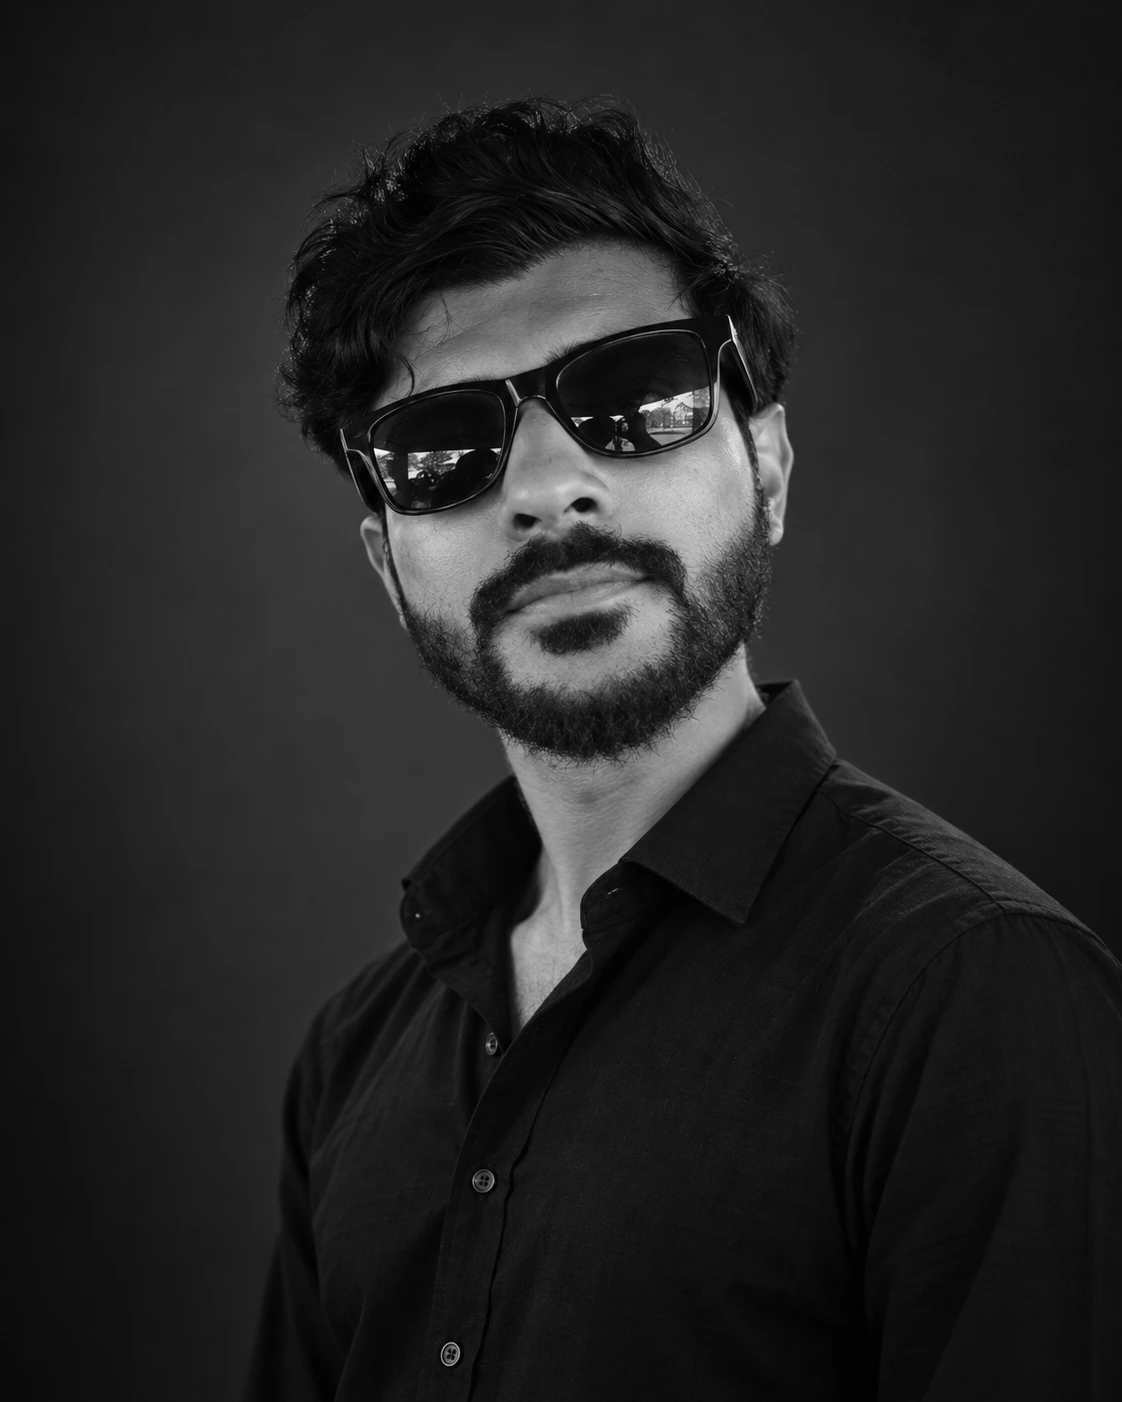
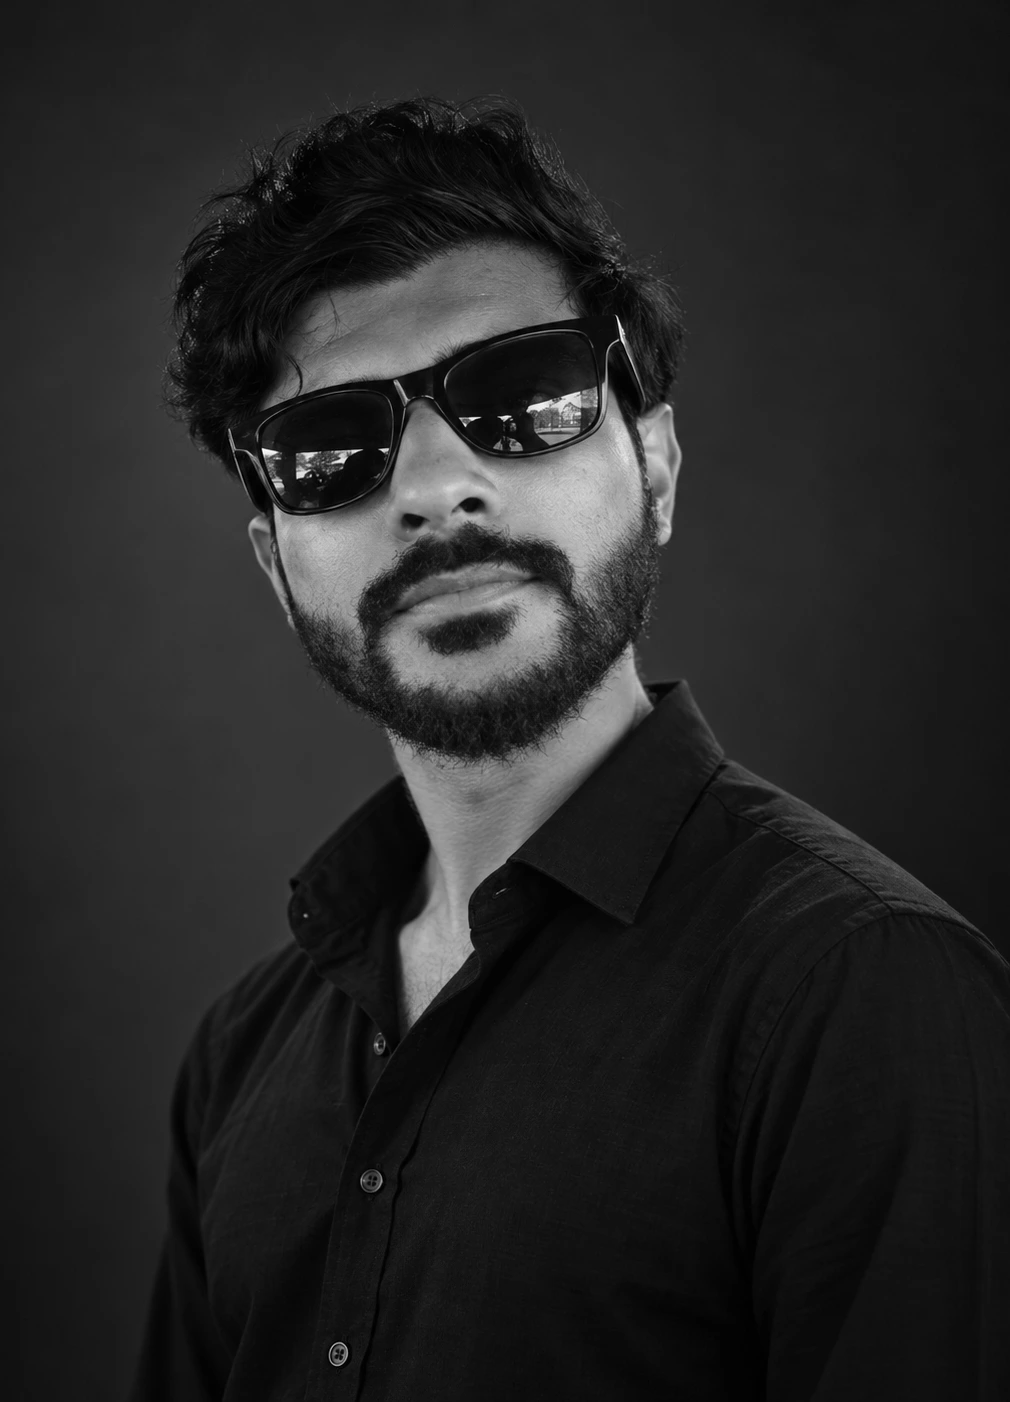
Footer: my silhouette in haze behind the invitation; About portrait cropped
art/portrait.py turns the grey studio shot into the footer's background:
the figure filled into one dark silhouette, a glow on the wall behind the
head, heavy blur with a sideways smear, haze and grain, in grayscale. The
invitation sits on its quiet left (on phones, at its foot) and the image
fades into the page; the mercury stirs it, through the text. The dark shot
on About loses the empty band on its left. The grey shot is no longer used.

diff --git a/art/portrait.py b/art/portrait.py
@@ -1,0 +1,65 @@
+# The portrait treatments, from the owner's studio shots:
+#   haze  the footer's background: the figure as a soft silhouette against light, out of focus and
+#         smeared a little sideways, with a glow behind the head, haze and grain. Grayscale.
+#   crop  the dark studio shot for About, without the empty band on its left.
+#   art/out/venv/bin/python art/portrait.py <grey-shot> <dark-shot>
+#   -> src/assets/portrait/haze.webp and src/assets/portrait/studio-dark.webp
+import sys
+from pathlib import Path
+
+import numpy as np
+from PIL import Image
+from scipy.ndimage import binary_closing, binary_fill_holes, gaussian_filter, uniform_filter1d
+
+ROOT = Path(__file__).resolve().parents[1]
+OUT = ROOT / 'src/assets/portrait'
+grey_shot, dark_shot = sys.argv[1:3]
+rng = np.random.default_rng(19)
+
+
+def haze(path, W=2400, H=1500):
+    src = np.asarray(Image.open(path).convert('L'), dtype=np.float32) / 255
+    wall = float(np.median(src[: src.shape[0] // 6, : src.shape[1] // 6]))
+    # The figure, large and a little right of centre, cut off at the bottom like a bust.
+    scale = H * 1.18 / src.shape[0]
+    fig = np.asarray(Image.fromarray((src * 255).astype(np.uint8)).resize((int(src.shape[1] * scale), int(src.shape[0] * scale)), Image.LANCZOS), dtype=np.float32) / 255
+    canvas = np.full((H, W), wall, dtype=np.float32)
+    x0 = int(W * 0.6 - fig.shape[1] / 2)
+    y0 = int(H * 0.16)
+    h = min(fig.shape[0], H - y0)
+    canvas[y0 : y0 + h, max(0, x0) : x0 + fig.shape[1]] = fig[:h, max(0, -x0) :][:, : W - max(0, x0)]
+    # The figure as one solid shape: the dark parts (hair, glasses, beard, shirt) closed up and
+    # filled, so the face between them is inside it too. Then filled near black: a silhouette.
+    dark = canvas < wall - 0.15
+    dark = binary_closing(dark, structure=np.ones((9, 9)), iterations=9)
+    dark = binary_fill_holes(dark)
+    mask = gaussian_filter(dark.astype(np.float32), 4)
+    canvas = canvas * (1 - mask) + (0.1 + 0.12 * canvas) * mask
+    # Light behind the head, raking up and to the right, that falls on the wall, not on him.
+    yy, xx = np.mgrid[0:H, 0:W].astype(np.float32)
+    hx, hy = W * 0.6 + W * 0.06, H * 0.36
+    d = ((xx - hx) / (W * 0.2)) ** 2 + ((yy - hy) / (H * 0.42)) ** 2
+    shaft = np.exp(-d) * (0.55 + 0.45 * np.clip((xx - hx) / (W * 0.25) + 0.6, 0, 1))
+    lit = canvas + shaft * 0.75 * (1 - mask)
+    # Out of focus, and smeared sideways as if he moved during a long exposure.
+    lit = gaussian_filter(lit, 26)
+    lit = 0.65 * lit + 0.35 * uniform_filter1d(lit, 140, axis=1)
+    # Haze lifts the darks; a soft curve; grain.
+    lit = 0.82 * lit + 0.18 * wall
+    lit = np.clip(lit, 0, 1) ** 0.95
+    lit += rng.normal(0, 0.018, lit.shape).astype(np.float32)
+    img = Image.fromarray((np.clip(lit, 0, 1) * 255).astype(np.uint8))
+    img.save(OUT / 'haze.webp', quality=82)
+    return img.size
+
+
+def crop(path):
+    img = Image.open(path).convert('L')
+    w, h = img.size
+    img = img.crop((int(w * 0.1), 0, w, h))  # the empty band on the left goes
+    img.save(OUT / 'studio-dark.webp', quality=92)
+    return img.size
+
+
+OUT.mkdir(parents=True, exist_ok=True)
+print('haze', haze(grey_shot), 'crop', crop(dark_shot))
